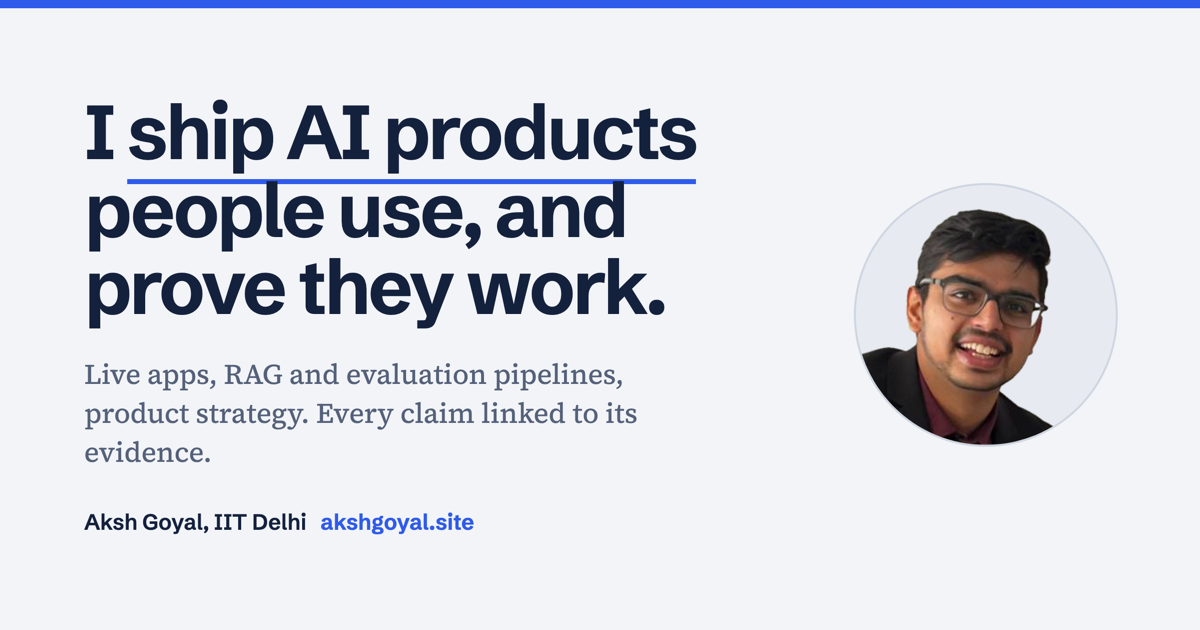
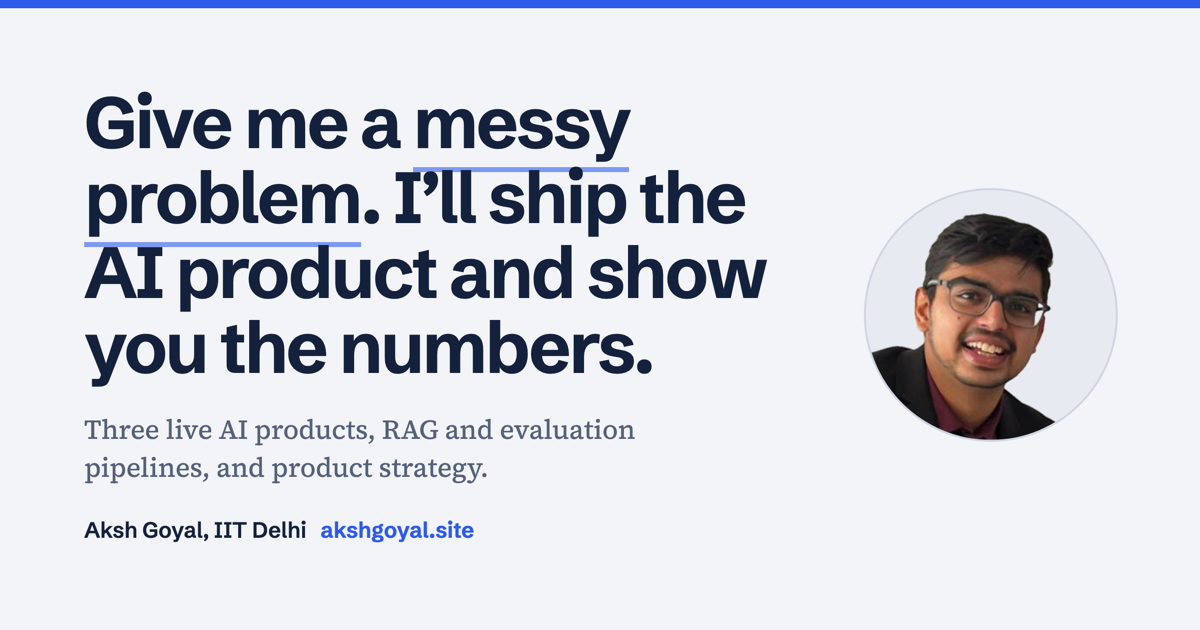
Hero rewrite for founders
- Headline: 'Give me a messy problem. I’ll ship the AI product and show
  you the numbers.' Superscript numbers removed; quieter underlines
- Evidence notes labelled Real problems / Live products / Measured results
- Subtext: thrives in high-ownership roles
- Title and link-preview image match

diff --git a/src/styles/site.css b/src/styles/site.css
@@ -1469,3 +1469,25 @@ a.row:hover .row__title {
     color: var(--color-muted);
   }
 }
+
+/* Hero v3: quiet citations, labelled evidence notes. */
+.hero .cite {
+  border-bottom: 2px solid color-mix(in srgb, var(--color-trace) 55%, transparent);
+  border-radius: 0;
+}
+.note__num {
+  font-size: 0.78rem;
+  font-weight: 650;
+  letter-spacing: 0.01em;
+  color: var(--color-trace);
+}
+@media (max-width: 1023px) {
+  .note {
+    display: block;
+  }
+  .note__num {
+    grid-row: auto;
+    padding-top: 0;
+    margin-bottom: 2px;
+  }
+}
